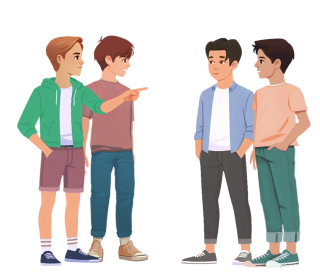
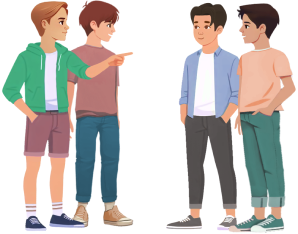
edit

diff --git a/drag_and_drop.html b/drag_and_drop.html
@@ -27,7 +27,7 @@
       <div class="container" style="overflow-x: auto;">
         <div class="row flex-nowrap w-100">
           <div class="col align-items-center d-flex flex-column p-0 m-1 m-md-2 match-game-column" style="width: fit-content;">
-            <div class="activity4-3to6 d-flex justify-content-center align-items-center p-2">
+            <div class="drag-and-drop-card d-flex justify-content-center align-items-center p-2">
               <img src="" alt="Image" class="responsive-img">
             </div>
             <div class="drop_box">
@@ -35,7 +35,7 @@
             </div>
           </div>
           <div class="col align-items-center d-flex flex-column p-0 m-1 m-md-2 match-game-column" style="width: fit-content;">
-            <div class="activity4-3to6 d-flex justify-content-center align-items-center p-2">
+            <div class="drag-and-drop-card d-flex justify-content-center align-items-center p-2">
               <img src="" alt="Image" class="responsive-img">
             </div>
             <div class="drop_box">
@@ -43,7 +43,7 @@
             </div>
           </div>
           <div class="col align-items-center d-flex flex-column p-0 m-1 m-md-2 match-game-column" style="width: fit-content;">
-            <div class="activity4-3to6 d-flex justify-content-center align-items-center p-2">
+            <div class="drag-and-drop-card d-flex justify-content-center align-items-center p-2">
               <img src="" alt="Image" class="responsive-img">
             </div>
             <div class="drop_box">
@@ -51,7 +51,7 @@
             </div>
           </div>
           <div class="col align-items-center d-flex flex-column p-0 m-1 m-md-2 match-game-column" style="width: fit-content;">
-            <div class="activity4-3to6 d-flex justify-content-center align-items-center p-2">
+            <div class="drag-and-drop-card d-flex justify-content-center align-items-center p-2">
               <img src="" alt="Image" class="responsive-img">
             </div>
             <div class="drop_box">

diff --git a/style.css b/style.css
@@ -112,8 +112,9 @@ body {
 
 .memory-game-image {
   height: 50%;
-  margin-top: 20%;
+  margin-top: 25%;
   object-fit: contain;
+  width: 80%;
 }
 
 /* activity 01 */
@@ -159,14 +160,20 @@ body {
   max-width: 250px; */
 }
 
-.activity1-3to6 {
+.activity1-3to6, .correct-incorrect-card {
   background-color: #D8EFF9;
   border: 2px solid #5A9DE9;
-  border-radius: 20px;
+  border-radius: 10px;
   height: 20vh;
-  margin-top: 2rem;
+  min-height: 135px;
+  min-width: 115px;
+  width: 100%;
+}
+
+.activity1-3to6 img, .correct-incorrect-card img {
   width: auto;
 }
+
 
 .container-right {
   float: right;
@@ -206,6 +213,7 @@ figure {
   width: fit-content;
   margin-left: 6vw; */
   width: 80%;
+  margin-left: 10%;
 }
 
 #proposed_answers div {
@@ -261,8 +269,9 @@ figure {
 
 /* activity 3 */
 .white-circle {
-  width: 25px;
-  height: 25px;
+  padding: 1px;
+  width: 30px;
+  height: 30px;
   background-color: white;
   position: absolute;
   top: 3%;
@@ -270,6 +279,7 @@ figure {
   font-family: "Caveat Brush", cursive;
   font-weight: 400;
   font-style: normal;
+  text-transform: capitalize;
 }
 
 
@@ -316,22 +326,19 @@ figure {
   width: 75px;
 }
 
-.activity4-3to6 {
+.activity4-3to6, .drag-and-drop-card, .secret-code-card {
   background-color: #D8EFF9;
   border: 2px solid #5A9DE9;
   border-radius: 10px;
   height: 20vh;
   min-height: 125px;
-  /* margin-top: 2rem; */
   width: 100%;
 }
 
-.activity4-3to6 img {
-  /* max-height: 100%; */
-  /* max-width: 100%; */
-  /* height: 80%; */
+.activity4-3to6 img, .drag-and-drop-card img, .secret-code-card img {
   width: auto;
 }
+
 
 .form-control {
   /* width: 100px; */

diff --git a/correct_incorrect.html b/correct_incorrect.html
@@ -22,9 +22,9 @@
     </div>
     <figure class="d-flex flex-column align-items-center">
       <div class="col align-items-center d-flex flex-column p-0 m-2" style="min-width: min(max(20%, 90px), 200px);">
-        <div class="activity4-3to6 d-flex justify-content-center align-items-center p-2 flex-column position-relative">
+        <div class="correct-incorrect-card d-flex justify-content-center align-items-center p-2 flex-column position-relative">
           <div class="rounded-circle white-circle text-center"></div>
-          <img src="" alt="Image" class="responsive-img" style="margin-top: 15%;"">
+          <img src="" alt="Image" class="responsive-img" style="margin-top: 15%;">
           </div>
         </div>
         <div class=" d-flex flex-row w-100 justify-content-center">
@@ -33,7 +33,7 @@
         </div>
     </figure>
     <!-- buttons navigation -->
-    <div class="d-flex flex-row w-100 flex-wrap">
+    <div class="d-flex flex-row w-100 flex-wrap justify-content-center">
       <button type="button" class="btn-blue btn m-1 m-xl-2">activities home page</button>
       <button type="button" class="btn-blue btn m-1 m-xl-2">home page</button>
     </div>

diff --git a/select_answer.html b/select_answer.html
@@ -19,7 +19,7 @@
     </div>
     <figure class="d-flex flex-column align-items-center">
       <div class="col align-items-center d-flex flex-column p-0 m-2" style="min-width: min(max(20%, 75px), 200px);">
-        <div class="activity4-3to6 d-flex justify-content-center align-items-center p-2">
+        <div class="activity1-3to6 d-flex justify-content-center align-items-center p-2">
           <img src="" alt="Image" class="responsive-img">
         </div>
       </div>
@@ -30,7 +30,7 @@
       </div>
     </figure>
     <!-- buttons navigation -->
-    <div class="d-flex flex-row w-100 flex-wrap">
+    <div class="d-flex flex-row w-100 flex-wrap justify-content-center">
       <button type="button" class="btn-blue btn m-1 m-xl-2">activities home page</button>
       <button type="button" class="btn-blue btn m-1 m-xl-2">home page</button>
     </div>

diff --git a/secret_code.js b/secret_code.js
@@ -114,7 +114,7 @@ $(document).ready(function () {
        shuffled.forEach(element => {
             $('.secret-code-cards').append(`
             <div class="col align-items-center d-flex flex-column p-0 m-2" style="min-width: 20%;">
-                <div class="activity4-3to6 d-flex justify-content-center align-items-center p-2">
+                <div class="secret-code-card d-flex justify-content-center align-items-center p-2">
                     <img src="./media/${dir}/${element}" alt="Image" class="responsive-img">
                 </div>
                 <div class="btn-379 btn-white-red btn m-2 px-2 proposed_part_of_code" data-correct="${element.split('_')[0] === correctAnswer ? 'true' : 'false'}">${Math.floor(Math.random() * 9) + 1}</div>

diff --git a/select_answer.js b/select_answer.js
@@ -53,7 +53,7 @@ $(document).ready(function () {
             $(this).text(proposedAnswers.shift());
         })
     }
-   
+
     function render() {
         randomElement = pickAndRemoveRandomElement(images);
         correctAnswer = randomElement.split('_')[0];
@@ -124,9 +124,11 @@ $(document).ready(function () {
         } else {
             if (width/height >= 1.5) {
                 this.style.height = "40%";
-            } else if (width/height >= 1.2) {
-                this.style.height = "60%";
-            } else {
+            } 
+            // else if (width/height >= 1.2) {
+            //     this.style.height = "60%";
+            // } 
+            else {
                 this.style.height = "80%";
             }
         }

diff --git a/memory.js b/memory.js
@@ -17,7 +17,7 @@ $(document).ready(function () {
 		'you_1' : 'tu',
 		'he_1' : 'il',
 		'she_1' : 'elle',
-		'it_1' : 'elle',
+		'it_1' : 'les choses et les animaux non familiers',
 		'we_1' : 'nous',
 		'you_2' : 'vous',
 		'they_1' : 'ils',
@@ -59,7 +59,7 @@ $(document).ready(function () {
 	function createMemoryCard(index) {
 		return (`<div class="col-2">
 					<div class="memory-card card-image" data-index="${index}">
-						<img src="" class="memory-game-image"></img>
+						<img src="./media/transparent.png" class="memory-game-image"></img>
 						<p></p>
 					</div>
 				</div>`);

diff --git a/correct_incorrect.js b/correct_incorrect.js
@@ -55,7 +55,7 @@ $(document).ready(function () {
         const proposedAnswer = createPossibleAnswer(allAnswers, correctAnswer);
         $(selector).text(proposedAnswer);
     }
-   
+    
     function render() {
         randomElement = pickAndRemoveRandomElement(images);
         correctAnswer = randomElement.split('_')[0];

diff --git a/index.php b/index.php
@@ -1,0 +1,97 @@
+<?php
+// $imageDirectory = 'media/1_4';
+
+// $files = scandir($imageDirectory);
+
+// foreach ($files as $file) {
+//    if (preg_match('/\.(jpg|jpeg|png|gif)$/i', $file)) {
+//         $imagePath = $imageDirectory . '/' . $file;
+
+//         $image = new Imagick($imagePath);
+
+//         $image->trimImage(0);
+
+//         $newImagePath = 'modified_' . basename($imagePath);
+//         $image->writeImage($newImagePath);
+
+//         $image->destroy();
+
+//         echo "Whitespace removed from: $newImagePath\n";
+//     }
+// }
+
+// Function to remove whitespace around an image
+function removeWhitespace($imagePath) {
+    // Open the image
+    $image = imagecreatefromstring(file_get_contents($imagePath));
+
+    // Get image dimensions
+    $width = imagesx($image);
+    $height = imagesy($image);
+
+    // Find the non-white pixels
+    $nonWhiteSpaceX = [];
+    $nonWhiteSpaceY = [];
+    for ($x = 0; $x < $width; $x++) {
+        for ($y = 0; $y < $height; $y++) {
+            $pixelColor = imagecolorat($image, $x, $y);
+            $rgba = imagecolorsforindex($image, $pixelColor);
+            if ($rgba['red'] != 255 || $rgba['green'] != 255 || $rgba['blue'] != 255) {
+                $nonWhiteSpaceX[] = $x;
+                $nonWhiteSpaceY[] = $y;
+            }
+        }
+    }
+
+    // Calculate new image dimensions without whitespace
+    $newWidth = max($nonWhiteSpaceX) - min($nonWhiteSpaceX) + 1;
+    $newHeight = max($nonWhiteSpaceY) - min($nonWhiteSpaceY) + 1;
+
+    // Create a new image with the new dimensions
+    $newImage = imagecreatetruecolor($newWidth, $newHeight);
+
+    // Copy the non-white pixels to the new image
+    imagecopy($newImage, $image, 0, 0, min($nonWhiteSpaceX), min($nonWhiteSpaceY), $newWidth, $newHeight);
+
+    // Save the modified image
+    $newImagePath = './media/1_4/modified_' . basename($imagePath);
+    imagepng($newImage, $newImagePath);
+
+    // Free up memory
+    imagedestroy($image);
+    imagedestroy($newImage);
+
+    return $newImagePath;
+}
+
+// Directory containing the images
+$imageDirectory = './media/1_4';
+
+// Get all files in the directory
+$files = scandir($imageDirectory);
+
+// Loop through each file
+foreach ($files as $file) {
+    // Check if it's a valid image file
+    if (preg_match('/\.(jpg|jpeg|png|gif)$/i', $file)) {
+        $inputPath = 'media/1_4/' . $file;
+        $outputPath = 'media/1_4/trimmed/' . $file;
+        
+        // Execute the ImageMagick command to trim the image
+        $command = "convert $inputPath -trim +repage $outputPath";
+        $output = array();
+        $returnVar = 0;
+        exec($command, $output, $returnVar);
+        
+        // Check if the command executed successfully
+        if ($returnVar === 0) {
+            echo "Image trimmed successfully!";
+        } else {
+            echo "Error trimming image: $returnVar";
+            // Optionally, you can also print the output to see any error messages from ImageMagick
+            echo implode("\n", $output);
+        }
+    }
+}
+echo phpinfo();
+?>
